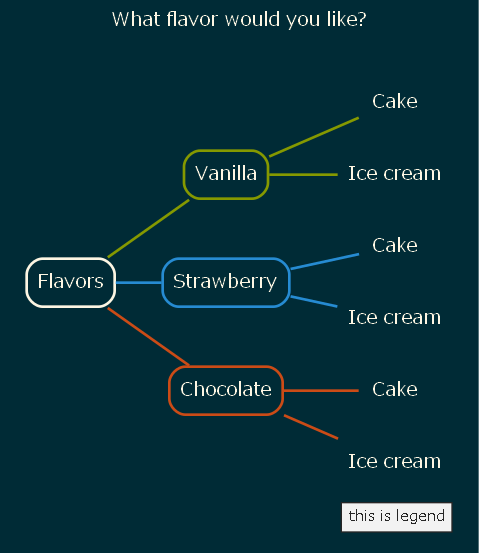
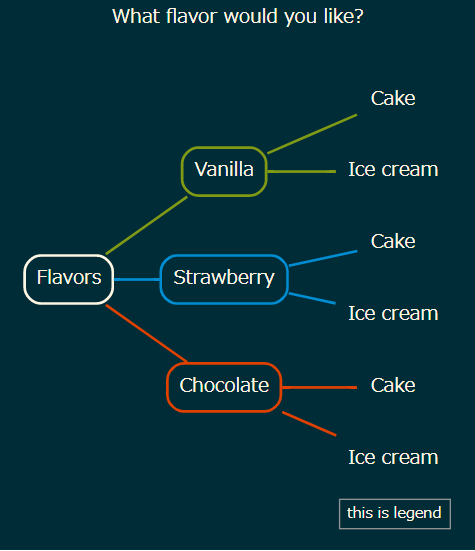
Change: mind2dot: legend table color

diff --git a/CHANGELOG.md b/CHANGELOG.md
@@ -10,15 +10,23 @@ and this project adheres to [Semantic Versioning](https://semver.org/spec/v2.0.0
 
 ### Changed
 
-- Updated [i] synopsis
-- Updated [README.md] synopsis
+- None
 
 ### Added
 
 - None
 
+## [3.6.2] - 2023-04-06
 
-## [3.6.1]
+### Changed
+
+- Updated [i] synopsis
+- Updated [README.md] synopsis
+- Changed [mind2dot] legend table color
+
+
+
+## [3.6.1] - 2023-04-06
 
 ### Changed
 
@@ -327,7 +335,8 @@ and this project adheres to [Semantic Versioning](https://semver.org/spec/v2.0.0
 [clip2normalize]: src/clip2normalize_function.ps1
 
 
-[unreleased]: https://github.com/btklab/posh-mocks/compare/3.6.1..HEAD
+[unreleased]: https://github.com/btklab/posh-mocks/compare/3.6.2..HEAD
+[3.6.2]: https://github.com/btklab/posh-mocks/releases/tag/3.6.2
 [3.6.1]: https://github.com/btklab/posh-mocks/releases/tag/3.6.1
 [3.6.0]: https://github.com/btklab/posh-mocks/releases/tag/3.6.0
 [3.5.0]: https://github.com/btklab/posh-mocks/releases/tag/3.5.0
